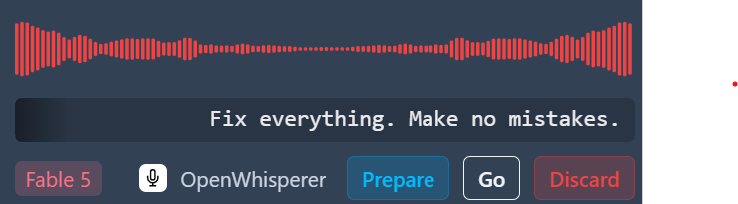
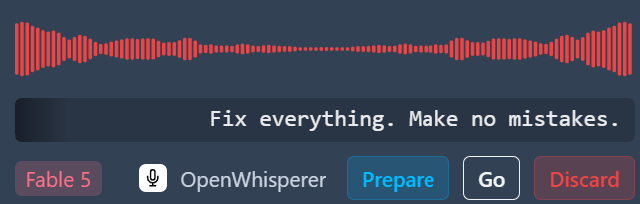
Update overlay screenshot and caption; drop PTY mode and Sequences from README

diff --git a/README.md b/README.md
@@ -45,13 +45,11 @@ Typing prompts is the slow part of working with coding agents. OpenWhisperer rem
 - **Split panes** — up to four sessions side by side
 - **Multimodal prompts** — paste or drop images; they're compressed and attached automatically
 - **Session persistence** — sessions survive restarts with full conversation history; an archive keeps searchable records of finished work
-- **PTY mode** — prefer the raw CLI? Sessions can run the `claude` CLI in an embedded xterm.js terminal instead
 
 **Flow management**
 
 - **Recording pile** — an inbox for thoughts captured now and launched later; items get LLM-cleaned transcripts, titles, and repo/model recommendations in the background, and can be batch-launched
 - **Smart Queue** — when a provider's usage window is exhausted, new sessions and rate-limited turns queue automatically and dispatch when the window resets
-- **Sequences** — node-based automation graphs (AI, git, GitHub, control nodes) with schedules and triggers, edited on a visual canvas
 - **Multi-repo aware** — a repository rail with per-repo settings (vocabulary, default models, MCP servers, launch profiles) and changed-file badges
 - **Usage dashboard** — sessions, tokens, costs, and streaks over time
 - **MCP support** — global or per-repo MCP servers (stdio/HTTP/SSE, with OAuth)
@@ -63,7 +61,7 @@ Typing prompts is the slow part of working with coding agents. OpenWhisperer rem
 
 ![Whole app](screenshots/whole-app.png)
 
-**Recording overlay** — floating always-on-top window with live waveform and transcription; prepare, send, or discard without leaving your current app:
+**Recording overlay** — appears when you hit the record hotkey, with live waveform and transcription; prepare, send, or discard without leaving your current app:
 
 ![Recording overlay](screenshots/recording-overlay.png)
 